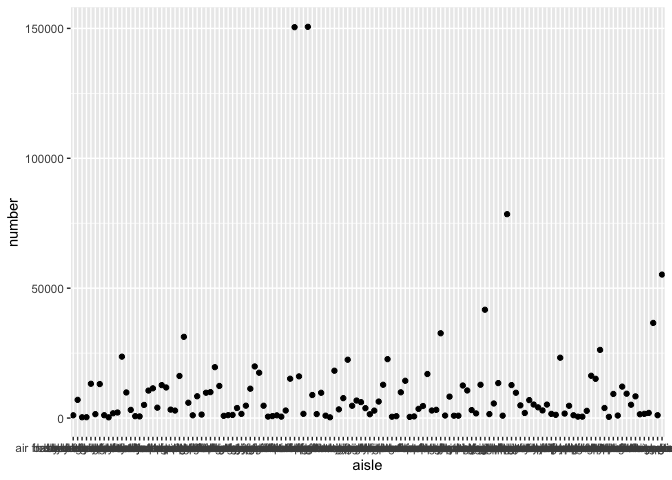
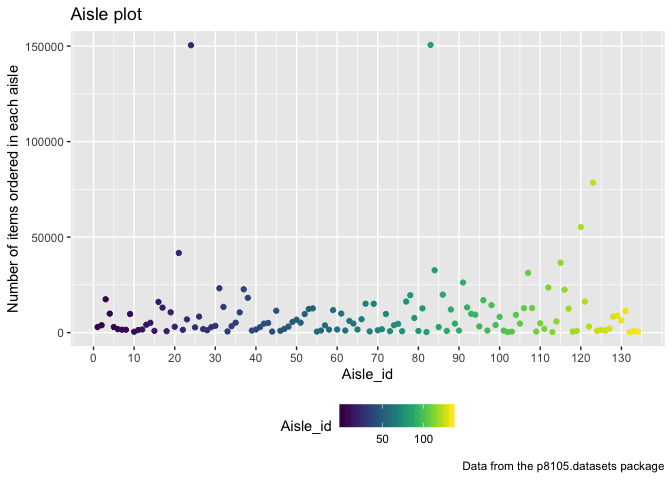
revise for problem 2

diff --git a/p8105_hw3_xy2397.md b/p8105_hw3_xy2397.md
@@ -144,52 +144,83 @@ data("instacart")
 
 The goal is to do some exploration of this dataset. To that end, write a short description of the dataset, noting the size and structure of the data, describing some key variables, and giving illstrative examples of observations.
 
-The dataset "Instacart" contains online grocery orders from instacart users.The size of the dataset is 1384617 rows x 15 columns.
+The dataset "Instacart" contains online grocery orders from instacart users. The size of the dataset is 1384617 rows x 15 columns, which means that it contains 1384617 records of online orders about 15 variables. There are some key variables such as id (order\_id, product\_id, user\_id, aisle\_id, department\_id) for identifier, order\_number for the order sequence number for this user, order\_dow for the day of the week on which the order was placed, order\_hour\_of\_day for the hour of the day on which the order was placed and product\_name for the name of product.
 
-Then, do or answer the following (commenting on the results of each): • How many aisles are there, and which aisles are the most items ordered from?
+For example for the user whose order\_id is 1, he(she) ordered online for 8 products, among those there were 4 products reordered. This order belongs to train evaluation set and this order is placed on Thursday for 10 hours, and it's 9 days since this user last order. Then, do or answer the following (commenting on the results of each):
+
+• How many aisles are there, and which aisles are the most items ordered from?
 
 ``` r
 instacart %>% 
   group_by(aisle) %>% 
   summarize(number = n()) %>% 
-  mutate(aisle_rank = min_rank(desc(number))) %>% 
-  filter(aisle_rank == "1")
+  top_n(5) 
 ```
 
-    ## # A tibble: 1 x 3
-    ##   aisle            number aisle_rank
-    ##   <chr>             <int>      <int>
-    ## 1 fresh vegetables 150609          1
+    ## Selecting by number
 
-So there are totally 134 aisles there, and fresh vegetables is the most items ordered from.
+    ## # A tibble: 5 x 2
+    ##   aisle                      number
+    ##   <chr>                       <int>
+    ## 1 fresh fruits               150473
+    ## 2 fresh vegetables           150609
+    ## 3 packaged cheese             41699
+    ## 4 packaged vegetables fruits  78493
+    ## 5 yogurt                      55240
+
+So there are totally 134 aisles there, and fresh vegetables is the most items ordered from for 150609 orders and following is fresh fruits for 150473 orders.
 
 • Make a plot that shows the number of items ordered in each aisle. Order aisles sensibly, and organize your plot so others can read it.
 
 ``` r
 instacart %>% 
-  group_by(aisle) %>% 
+  group_by(aisle_id) %>% 
   summarise(number = n()) %>% 
-  ggplot(aes(x = aisle, y = number)) +
-  geom_point()
+  ggplot(aes(x = aisle_id, y = number, color = aisle_id)) +
+  geom_point()+
+  labs(
+    title = "Aisle plot",
+    x = "Aisle_id",
+    y = "Number of items ordered in each aisle",
+    caption = "Data from the p8105.datasets package"
+  ) +
+  viridis::scale_color_viridis(
+    name = "Aisle_id",
+    discrete = FALSE,
+  ) +
+  scale_x_continuous(
+    breaks = c(0, 10, 20, 30, 40, 50, 60, 70, 80,
+               90, 100, 110, 120, 130)
+  ) +
+  theme(legend.position = "bottom")
 ```
 
 ![](p8105_hw3_xy2397_files/figure-markdown_github/unnamed-chunk-9-1.png)
+
+Since there are 134 different kinds of aisles, it is not readale to put the name of aisles in x-axis, so we use aisle\_id instead of aisle name to represent different kinds of aisles and color the number of items differently to indicate different aisles. In this way, the plot is more readable for others.
 
 • Make a table showing the most popular item aisles “baking ingredients”, “dog food care”, and “packaged vegetables fruits”
 
 ``` r
 instacart %>% 
   filter(aisle %in% c("baking ingredients", "dog food care", "packaged vegetables fruits" ) ) %>% 
-  group_by(aisle) %>% 
+  group_by(aisle, product_name) %>% 
   summarize(number = n()) %>% 
+  top_n(1) %>% 
   knitr::kable(digits = 3)
 ```
 
-| aisle                      |  number|
-|:---------------------------|-------:|
-| baking ingredients         |   13088|
-| dog food care              |    1612|
-| packaged vegetables fruits |   78493|
+    ## Selecting by number
+
+| aisle                      | product\_name                                 |  number|
+|:---------------------------|:----------------------------------------------|-------:|
+| baking ingredients         | Light Brown Sugar                             |     499|
+| dog food care              | Snack Sticks Chicken & Rice Recipe Dog Treats |      30|
+| packaged vegetables fruits | Organic Baby Spinach                          |    9784|
+
+We can first filter these three types of aisles from the full dataset and then grouped the dataset by these three different aisles and product\_name. When we summarize the number of each group and select the largest number of each group, we can now get the most popular item in each of the three aisles.
+
+From the table, we can find that the most popular item in "baking ingredients" is "Light Brown Sugar" which saled for 499 orders, the most popular item in "dog food care" is "Snack Sticks Chicken & Rice Recipe Dog Treats" which saled for 30 orders and he most popular item in "packaged vegetables fruits" is "Organic Baby Spinach" which saled for 9784 orders.
 
 • Make a table showing the mean hour of the day at which Pink Lady Apples and Coffee Ice Cream are ordered on each day of the week; format this table for human readers (i.e. produce a 2 x 7 table).
 
@@ -206,6 +237,8 @@ instacart %>%
 |:-----------------|-------:|-------:|-------:|-------:|-------:|-------:|-------:|
 | Coffee Ice Cream |  13.774|  14.316|  15.381|  15.318|  15.217|  12.263|  13.833|
 | Pink Lady Apples |  13.441|  11.360|  11.702|  14.250|  11.552|  12.784|  11.938|
+
+From the table we can easily read the mean hours of the day at each day of the week users spend on product "Coffee Ice Cream" and "Pink Lady Apples". We can find that people spend most hours for "Coffee Ice Cream" at Tuesday and for "Pink Lady Apples" at Wednesday.
 
 Problem 3
 =========
